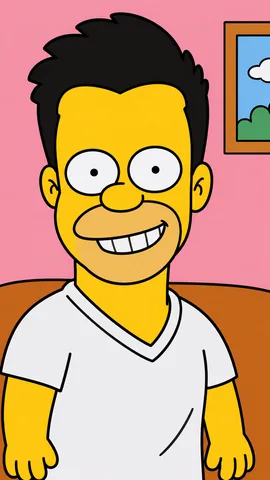
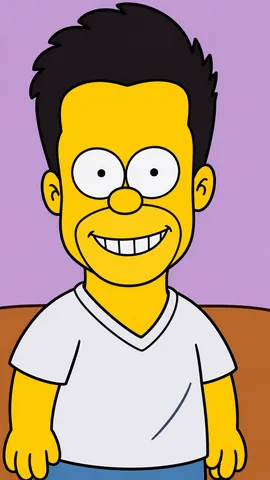
fix: keep the full camera frame on capture and show the whole result
- Ask ImageCapture for a portrait 1080x1920 target instead of 1920x1080. The
  landscape request made CameraX crop the field of view to 16:9, so the saved
  photo was a close-up of one cheek even though the preview looked correct.
- Stop centre-cropping the captured frame to 9:16 in the AI flow: scale it to
  1080 wide and keep the native height, and scale the preview proportionally
  instead of forcing 540x960.
- Move the capture preview into a dialog behind "Ver mi foto" so the guest can
  judge the shot, instead of a 140dp centre crop under the camera.
- Show the full result in the delivery step with ContentScale.Fit and cap the
  QR at 240dp instead of full width.
- Refresh the simpson and cyberpunk previews: simpson no longer names the show
  and cyberpunk keeps the guest's own eyes without the glowing halo.

diff --git a/app/src/main/java/com/photobooth/kiosk/ui/ai/AiSingleFlow.kt b/app/src/main/java/com/photobooth/kiosk/ui/ai/AiSingleFlow.kt
@@ -14,6 +14,7 @@ import androidx.compose.foundation.layout.FlowRow
 import androidx.compose.foundation.layout.Row
 import androidx.compose.foundation.layout.Spacer
 import androidx.compose.foundation.layout.aspectRatio
+import androidx.compose.foundation.layout.fillMaxHeight
 import androidx.compose.foundation.layout.fillMaxSize
 import androidx.compose.foundation.layout.fillMaxWidth
 import androidx.compose.foundation.layout.height
@@ -32,6 +33,7 @@ import androidx.compose.material.icons.rounded.ContentCopy
 import androidx.compose.material.icons.rounded.ImageNotSupported
 import androidx.compose.material.icons.rounded.QrCode2
 import androidx.compose.material.icons.rounded.Share
+import androidx.compose.material.icons.rounded.Visibility
 import androidx.compose.material3.Button
 import androidx.compose.material3.ButtonDefaults
 import androidx.compose.material3.CircularProgressIndicator
@@ -69,6 +71,7 @@ import androidx.compose.ui.text.font.FontWeight
 import androidx.compose.ui.text.style.TextAlign
 import androidx.compose.ui.unit.dp
 import androidx.compose.ui.unit.sp
+import androidx.compose.ui.window.Dialog
 import androidx.lifecycle.compose.collectAsStateWithLifecycle
 import androidx.lifecycle.viewmodel.compose.viewModel
 import com.photobooth.kiosk.R
@@ -473,6 +476,7 @@ private fun CaptureContent(
     onError: (String) -> Unit,
     onPalm: () -> Unit,
 ) {
+    var showPreview by remember { mutableStateOf(false) }
     Text(
         if (hasPhoto) "Foto lista. Revisa y continúa."
         else if (gestureActive) "Muestra la palma o toca el botón."
@@ -505,16 +509,16 @@ private fun CaptureContent(
         if (flash) Box(Modifier.fillMaxSize().background(Cream))
     }
     if (cameraError != null) Text(cameraError, color = Cream.copy(alpha = 0.8f), fontSize = 13.sp)
-    photoPreview?.let { preview ->
-        Image(
-            preview.asImageBitmap(),
-            contentDescription = "Vista previa",
-            modifier = Modifier
-                .fillMaxWidth()
-                .height(140.dp)
-                .clip(RoundedCornerShape(18.dp)),
-            contentScale = ContentScale.Crop,
-        )
+    if (hasPhoto && photoPreview != null) {
+        OutlinedButton(
+            onClick = { showPreview = true },
+            modifier = Modifier.fillMaxWidth().height(64.dp),
+            shape = RoundedCornerShape(20.dp),
+        ) {
+            Icon(Icons.Rounded.Visibility, contentDescription = null, tint = Cream)
+            Spacer(Modifier.width(8.dp))
+            Text("Ver mi foto", fontSize = 18.sp, fontWeight = FontWeight.Bold, color = Cream)
+        }
     }
     Button(
         onClick = onCapture,
@@ -523,6 +527,47 @@ private fun CaptureContent(
         colors = ButtonDefaults.buttonColors(containerColor = SyscomBlue),
     ) {
         Text(if (hasPhoto) "Repetir foto" else "Tomar foto", fontSize = 19.sp, fontWeight = FontWeight.Bold)
+    }
+
+    // Full-size preview in a modal: the inline thumbnail was too small to judge the shot.
+    if (showPreview && photoPreview != null) {
+        Dialog(onDismissRequest = { showPreview = false }) {
+            Column(
+                modifier = Modifier
+                    .fillMaxWidth()
+                    .clip(RoundedCornerShape(28.dp))
+                    .background(InkSoft)
+                    .padding(20.dp),
+                horizontalAlignment = Alignment.CenterHorizontally,
+            ) {
+                Text("Tu foto", color = Cream, fontSize = 20.sp, fontWeight = FontWeight.Bold)
+                Spacer(Modifier.height(14.dp))
+                Box(
+                    modifier = Modifier
+                        .fillMaxWidth()
+                        .height(420.dp)
+                        .clip(RoundedCornerShape(18.dp))
+                        .background(Ink),
+                    contentAlignment = Alignment.Center,
+                ) {
+                    Image(
+                        photoPreview.asImageBitmap(),
+                        contentDescription = "Tu foto",
+                        modifier = Modifier.fillMaxSize(),
+                        contentScale = ContentScale.Fit,
+                    )
+                }
+                Spacer(Modifier.height(16.dp))
+                Button(
+                    onClick = { showPreview = false },
+                    modifier = Modifier.fillMaxWidth().height(56.dp),
+                    shape = RoundedCornerShape(18.dp),
+                    colors = ButtonDefaults.buttonColors(containerColor = SyscomBlue),
+                ) {
+                    Text("Cerrar", fontSize = 17.sp, fontWeight = FontWeight.Bold)
+                }
+            }
+        }
     }
 }
 
@@ -860,15 +905,22 @@ private fun ShareContent(
 ) {
     SectionTitle("Comparte tu foto", "Escanea el código con cualquier celular.")
     preview?.let {
-        Image(
-            it.asImageBitmap(),
-            contentDescription = "Tu foto final",
+        // Show the whole strip instead of a center crop: guests need to see the real result.
+        Box(
             modifier = Modifier
                 .fillMaxWidth()
-                .height(180.dp)
-                .clip(RoundedCornerShape(20.dp)),
-            contentScale = ContentScale.Crop,
-        )
+                .height(300.dp)
+                .clip(RoundedCornerShape(20.dp))
+                .background(InkSoft),
+            contentAlignment = Alignment.Center,
+        ) {
+            Image(
+                it.asImageBitmap(),
+                contentDescription = "Tu foto final",
+                modifier = Modifier.fillMaxHeight().fillMaxWidth(),
+                contentScale = ContentScale.Fit,
+            )
+        }
     }
     Box(
         Modifier
@@ -884,6 +936,7 @@ private fun ShareContent(
                     qr.asImageBitmap(),
                     contentDescription = "QR de descarga",
                     modifier = Modifier
+                        .widthIn(max = 240.dp)
                         .fillMaxWidth()
                         .aspectRatio(1f)
                         .clip(RoundedCornerShape(16.dp)),

diff --git a/app/src/main/java/com/photobooth/kiosk/ui/ai/AiSingleViewModel.kt b/app/src/main/java/com/photobooth/kiosk/ui/ai/AiSingleViewModel.kt
@@ -108,13 +108,23 @@ class AiSingleViewModel(application: Application) : AndroidViewModel(application
                 if (!current.isRecycled) current.recycle()
                 current = mirrored
             }
-            val full = BitmapTransforms.centerCrop(
-                current,
-                PhotoProcessor.OUTPUT_WIDTH,
-                PhotoProcessor.OUTPUT_HEIGHT,
-            )
+            // Keep the whole frame. Forcing 9:16 here cut the sides of a 3:4 camera
+            // buffer, so the guest ended up with a close-up of one cheek.
+            val targetWidth = minOf(PhotoProcessor.OUTPUT_WIDTH, current.width)
+            val targetHeight = current.height * targetWidth / current.width
+            val full = if (targetWidth == current.width && targetHeight == current.height) {
+                current.copy(Bitmap.Config.ARGB_8888, false)
+            } else {
+                Bitmap.createScaledBitmap(current, targetWidth, targetHeight, true)
+            }
             if (!current.isRecycled) current.recycle()
-            val preview = Bitmap.createScaledBitmap(full, 540, 960, true)
+            val previewWidth = 540
+            val preview = Bitmap.createScaledBitmap(
+                full,
+                previewWidth,
+                full.height * previewWidth / full.width,
+                true,
+            )
             val dir = ensureSessionDir()
             val file = File(dir, "ai_single_original.jpg")
             withContext(Dispatchers.IO) { PhotoFrameComposer.writeJpeg(full, file) }

diff --git a/app/src/main/java/com/photobooth/kiosk/camera/CameraPreview.kt b/app/src/main/java/com/photobooth/kiosk/camera/CameraPreview.kt
@@ -117,7 +117,9 @@ fun CameraPreview(
                 @Suppress("DEPRECATION")
                 val capture = ImageCapture.Builder()
                     .setCaptureMode(ImageCapture.CAPTURE_MODE_MINIMIZE_LATENCY)
-                    .setTargetResolution(Size(1920, 1080))
+                    // Portrait target: a landscape request makes CameraX crop the field of
+                    // view to 16:9, so the saved photo ends up tighter than the preview.
+                    .setTargetResolution(Size(1080, 1920))
                     .build()
 
                 @Suppress("DEPRECATION")
